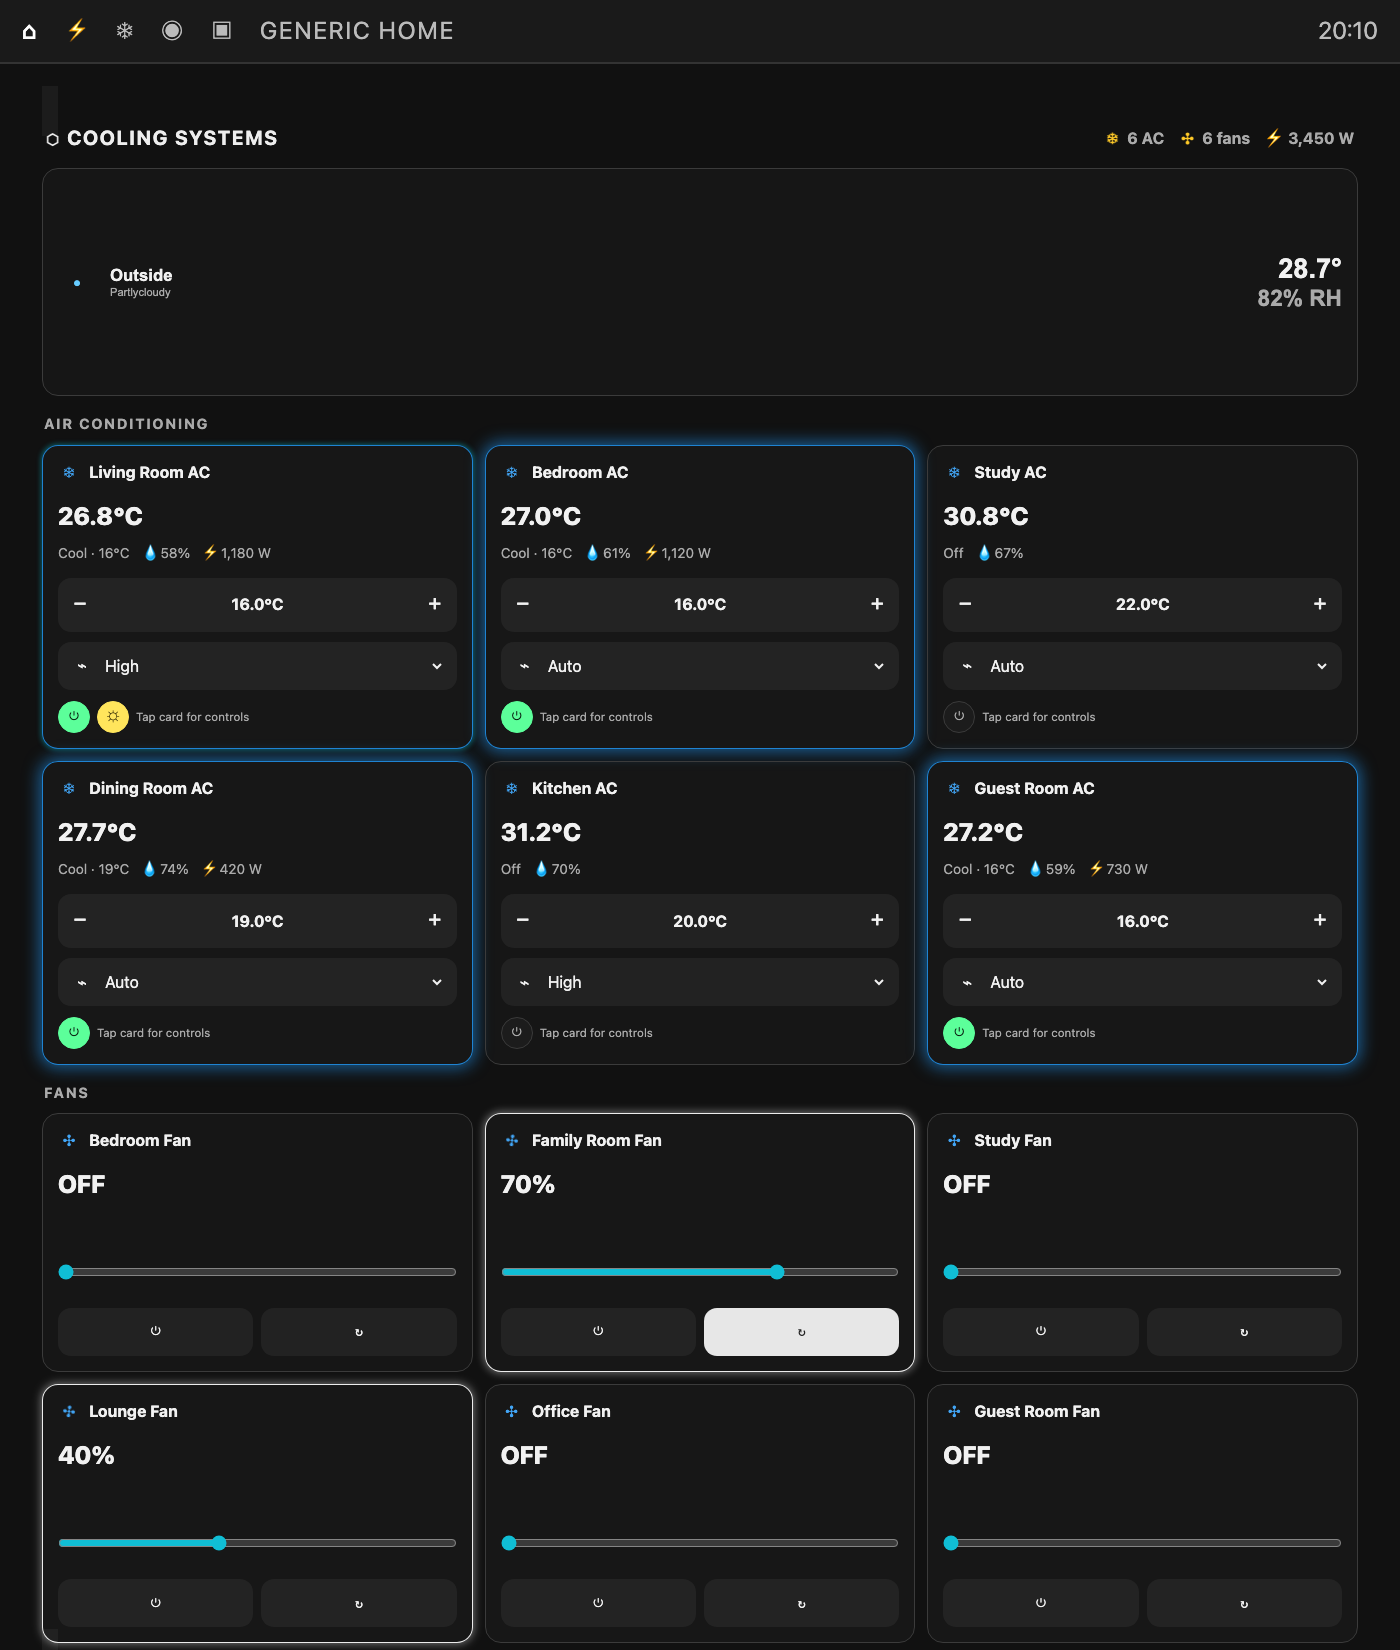
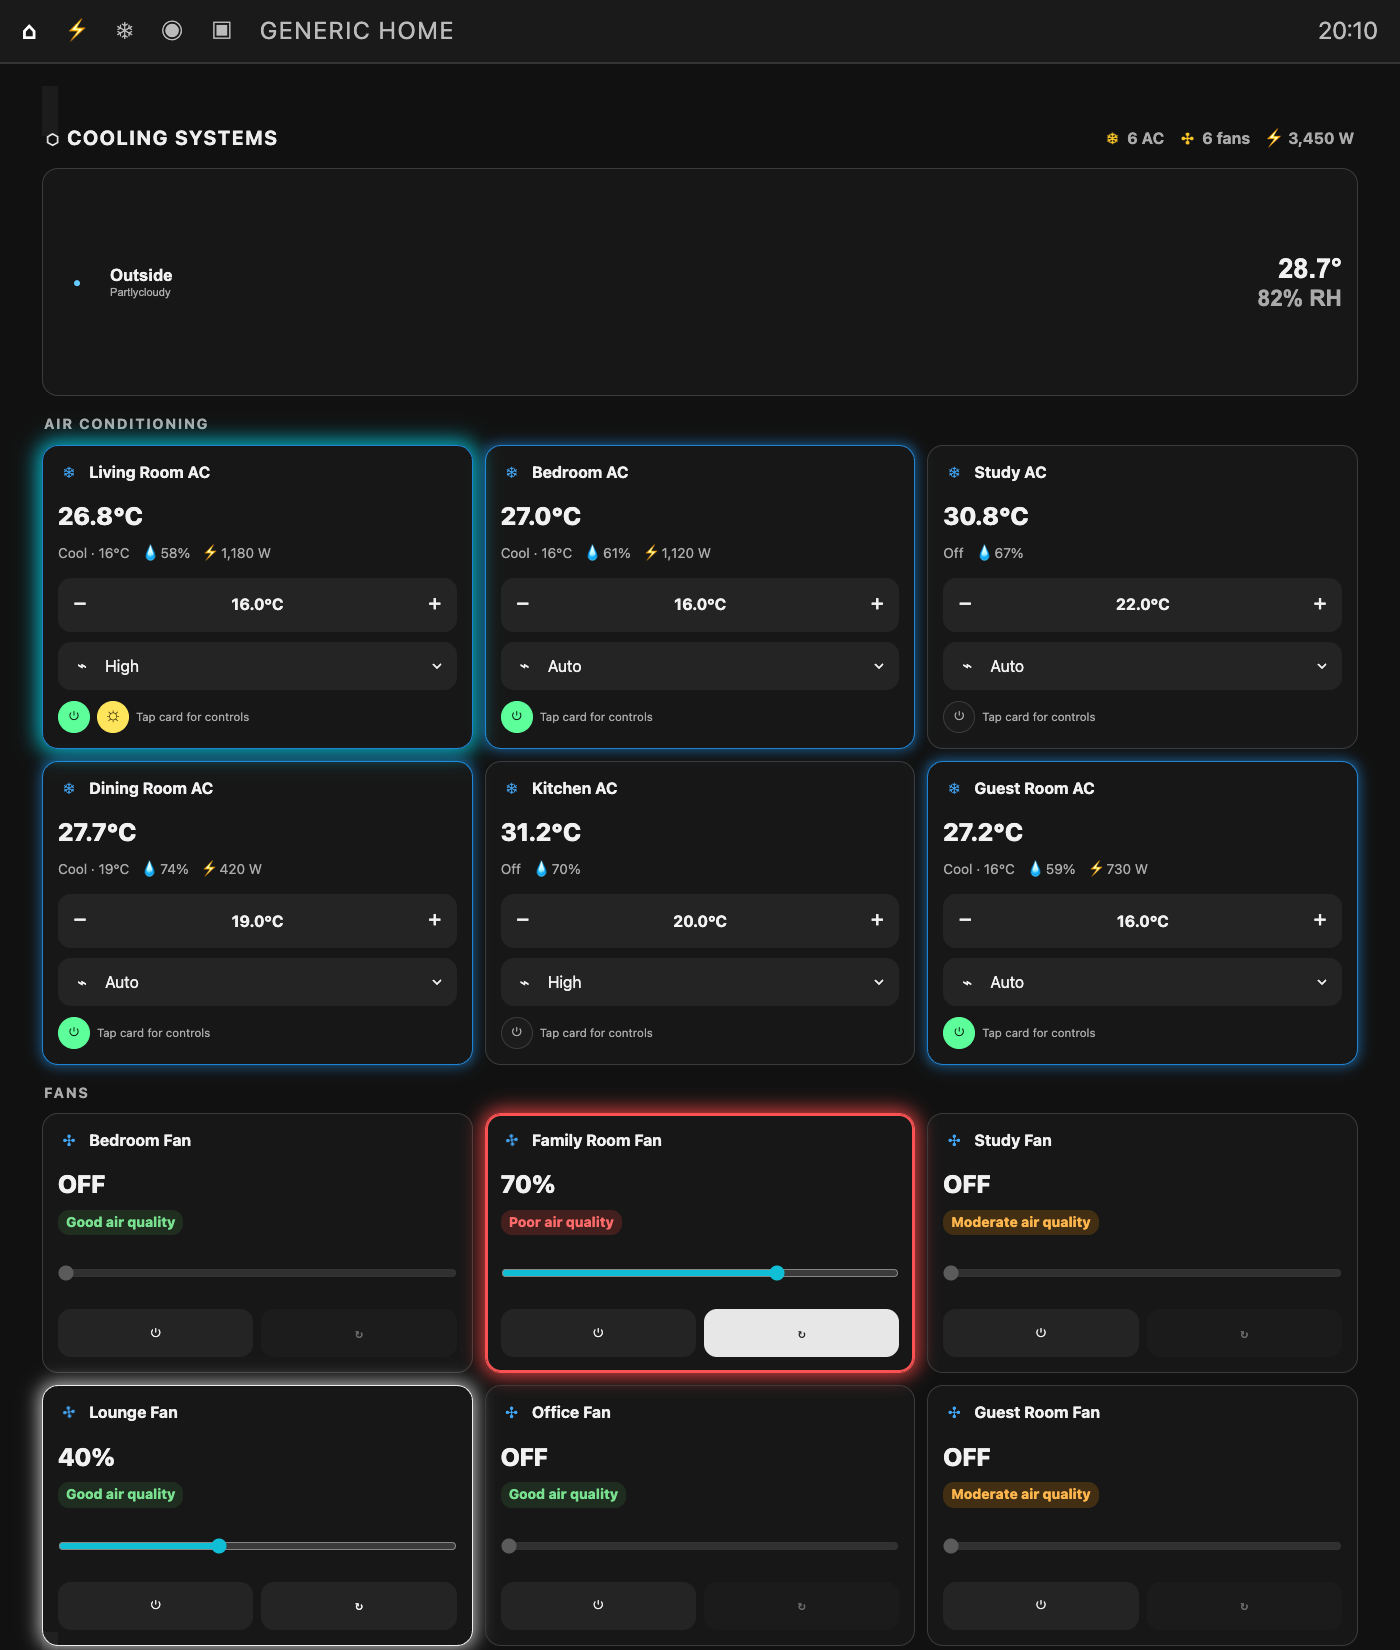
Rename public cooling dashboard

diff --git a/cooling-dashboard.js b/cooling-dashboard.js
@@ -1,4 +1,4 @@
-const CARD_VERSION = "1.1.0";
+const CARD_VERSION = "2.0.0";
 
 const escapeHtml = (value) => String(value ?? "")
   .replaceAll("&", "&amp;")
@@ -9,7 +9,7 @@ const escapeHtml = (value) => String(value ?? "")
 
 const validValue = (value) => value !== undefined && value !== null && !["unknown", "unavailable", "none", ""].includes(String(value));
 
-class LcarsCoolingDashboard extends HTMLElement {
+class CoolingDashboard extends HTMLElement {
   constructor() {
     super();
     this.attachShadow({ mode: "open" });
@@ -82,6 +82,14 @@ class LcarsCoolingDashboard extends HTMLElement {
     return Number.isFinite(value) ? value : null;
   }
 
+  _airQuality(item) {
+    const pm25 = this._number(item.pm2_5);
+    if (pm25 === null) return null;
+    if (pm25 <= 12) return { level: "good", label: "Good air quality", pm25 };
+    if (pm25 <= 35) return { level: "moderate", label: "Moderate air quality", pm25 };
+    return { level: "poor", label: "Poor air quality", pm25 };
+  }
+
   _formatPower(value) {
     if (!Number.isFinite(value)) return "—";
     return `${Math.round(value).toLocaleString()} W`;
@@ -91,7 +99,7 @@ class LcarsCoolingDashboard extends HTMLElement {
     if (!this._config || !this._hass) return "waiting";
     const ids = new Set([this._config.weather, this._config.outside_humidity]);
     for (const item of [...this._config.air_conditioners, ...this._config.fans]) {
-      [item.entity, item.humidity, item.power, item.led].filter(Boolean).forEach((id) => ids.add(id));
+      [item.entity, item.humidity, item.power, item.led, item.pm2_5].filter(Boolean).forEach((id) => ids.add(id));
     }
     return JSON.stringify([...ids].map((id) => {
       const state = this._state(id);
@@ -133,10 +141,12 @@ class LcarsCoolingDashboard extends HTMLElement {
   }
 
   async _setFanSpeed(entityId, percentage) {
+    if (this._state(entityId)?.state !== "on") return;
     await this._hass.callService("fan", "set_percentage", { entity_id: entityId, percentage: Number(percentage) });
   }
 
   async _toggleOscillation(entityId) {
+    if (this._state(entityId)?.state !== "on") return;
     const oscillating = Boolean(this._state(entityId)?.attributes?.oscillating);
     await this._hass.callService("fan", "oscillate", { entity_id: entityId, oscillating: !oscillating });
   }
@@ -198,16 +208,18 @@ class LcarsCoolingDashboard extends HTMLElement {
     const power = this._power(item, state);
     const percentage = Number(state?.attributes?.percentage);
     const oscillating = Boolean(state?.attributes?.oscillating);
+    const airQuality = this._airQuality(item);
     return `
-      <article class="entity-card fan ${running ? "running" : ""} ${unavailable ? "unavailable" : ""}" data-entity="${escapeHtml(item.entity)}">
+      <article class="entity-card fan ${running ? "running" : ""} ${airQuality ? `air-${airQuality.level}` : ""} ${unavailable ? "unavailable" : ""}" data-entity="${escapeHtml(item.entity)}">
         <div class="card-top"><ha-icon class="fan-icon" icon="${escapeHtml(item.icon || "mdi:fan")}"></ha-icon><strong>${escapeHtml(item.name || state?.attributes?.friendly_name || item.entity)}</strong></div>
         <div class="primary-reading">${unavailable ? "—" : running ? `${Number.isFinite(percentage) ? Math.round(percentage) : 100}%` : "OFF"}</div>
         <div class="details">
           ${humidity === null ? "" : `<span><ha-icon icon="mdi:water-percent"></ha-icon>${Math.round(humidity)}%</span>`}
           ${power === null ? "" : `<span><ha-icon icon="mdi:lightning-bolt"></ha-icon>${escapeHtml(this._formatPower(power))}</span>`}
+          ${airQuality ? `<span class="air-badge ${airQuality.level}">${escapeHtml(airQuality.label)}</span>` : ""}
         </div>
-        <input class="speed" data-fan-speed="${escapeHtml(item.entity)}" type="range" min="0" max="100" step="10" value="${Number.isFinite(percentage) ? percentage : 0}" aria-label="Fan speed">
-        <div class="fan-actions"><button class="feature-button" data-toggle="${escapeHtml(item.entity)}" title="Power"><ha-icon icon="mdi:power"></ha-icon></button><button class="feature-button ${oscillating ? "active" : ""}" data-oscillate="${escapeHtml(item.entity)}" title="Oscillation"><ha-icon icon="mdi:rotate-360"></ha-icon></button></div>
+        <input class="speed" data-fan-speed="${escapeHtml(item.entity)}" type="range" min="0" max="100" step="10" value="${Number.isFinite(percentage) ? percentage : 0}" aria-label="Fan speed" ${running ? "" : "disabled"}>
+        <div class="fan-actions"><button class="feature-button" data-toggle="${escapeHtml(item.entity)}" title="Power"><ha-icon icon="mdi:power"></ha-icon></button><button class="feature-button ${oscillating ? "active" : ""}" data-oscillate="${escapeHtml(item.entity)}" title="Oscillation" ${running ? "" : "disabled"}><ha-icon icon="mdi:rotate-360"></ha-icon></button></div>
       </article>`;
   }
 
@@ -253,6 +265,7 @@ class LcarsCoolingDashboard extends HTMLElement {
         .entity-card.running { border-color:rgba(33,150,243,.85); animation:running-glow 3.2s ease-in-out infinite; }
         .entity-card.coldest { animation:coldest-glow 1.7s ease-in-out infinite; }
         .entity-card.fan.running { border-color:rgba(255,255,255,.92); animation:white-glow 2.2s ease-in-out infinite; }
+        .entity-card.fan.running.air-poor { animation:poor-air-glow .9s ease-in-out infinite; }
         .entity-card.unavailable { opacity:.48; }
         .card-top { display:flex; align-items:center; gap:9px; min-width:0; }
         .card-top strong { overflow:hidden; text-overflow:ellipsis; white-space:nowrap; }
@@ -262,6 +275,10 @@ class LcarsCoolingDashboard extends HTMLElement {
         .details { min-height:24px; display:flex; flex-wrap:wrap; gap:7px 12px; color:var(--secondary-text-color); font-size:.86rem; text-transform:capitalize; }
         .details span { display:inline-flex; align-items:center; gap:3px; }
         .details ha-icon { width:16px; }
+        .air-badge { padding:3px 8px; border-radius:11px; font-weight:800; text-transform:none; }
+        .air-badge.good { background:rgba(76,175,80,.15); color:#78e08f; }
+        .air-badge.moderate { background:rgba(255,152,0,.18); color:#ffb74d; }
+        .air-badge.poor { background:rgba(244,67,54,.2); color:#ff6b6b; }
         .actions { display:flex; align-items:center; gap:7px; margin-top:11px; color:var(--secondary-text-color); font-size:.72rem; }
         .temperature-control { height:54px; display:grid; grid-template-columns:44px 1fr 44px; align-items:center; margin-top:12px; border-radius:13px; background:rgba(255,255,255,.055); text-align:center; }
         .temperature-control button { height:100%; border:0; background:transparent; color:var(--primary-text-color); font-size:1.45rem; cursor:pointer; }
@@ -271,6 +288,7 @@ class LcarsCoolingDashboard extends HTMLElement {
         .speed { width:100%; height:56px; margin:10px 0 8px; accent-color:#10bed5; }
         .fan-actions { display:grid; grid-template-columns:1fr 1fr; gap:8px; }
         .feature-button { height:48px; border:0; border-radius:13px; background:rgba(255,255,255,.055); color:var(--primary-text-color); cursor:pointer; }
+        .feature-button:disabled,.speed:disabled { cursor:not-allowed; opacity:.38; }
         .feature-button.active { background:#e7e7e7; color:#222; }
         .action { width:32px; height:32px; display:grid; place-items:center; padding:0; border:1px solid var(--divider-color); border-radius:50%; background:var(--card-background-color); color:var(--secondary-text-color); cursor:pointer; }
         .action.active.power { color:#091d10; background:#5cff9a; border-color:#5cff9a; }
@@ -279,6 +297,7 @@ class LcarsCoolingDashboard extends HTMLElement {
         @keyframes running-glow { 0%,100%{box-shadow:0 0 3px rgba(33,150,243,.28)} 50%{box-shadow:0 0 16px 3px rgba(33,150,243,.58)} }
         @keyframes coldest-glow { 0%,100%{box-shadow:0 0 5px rgba(0,229,255,.35)} 50%{box-shadow:0 0 22px 5px rgba(0,229,255,.82)} }
         @keyframes white-glow { 0%,100%{box-shadow:0 0 4px rgba(255,255,255,.28)} 50%{box-shadow:0 0 18px 3px rgba(255,255,255,.72)} }
+        @keyframes poor-air-glow { 0%,100%{border-color:rgba(255,45,45,.98);box-shadow:inset 0 0 0 2px rgba(255,45,45,.98),0 0 18px 4px rgba(255,35,35,.78)} 50%{border-color:rgba(255,255,255,.98);box-shadow:inset 0 0 0 2px rgba(255,255,255,.98),0 0 18px 4px rgba(255,255,255,.72)} }
         @keyframes spin { to{transform:rotate(360deg)} }
         @media(max-width:800px){ :host{--cooling-ac-columns:2;--cooling-fan-columns:2}.header{align-items:flex-start;flex-direction:column}.summary{flex-wrap:wrap}.entity-card{min-height:148px} }
         @media(max-width:480px){ ha-card{padding:11px}.grid{gap:9px}.entity-card{padding:12px}.actions span{display:none} }
@@ -315,17 +334,17 @@ class LcarsCoolingDashboard extends HTMLElement {
   }
 }
 
-if (!customElements.get("lcars-cooling-dashboard")) {
-  customElements.define("lcars-cooling-dashboard", LcarsCoolingDashboard);
+if (!customElements.get("cooling-dashboard")) {
+  customElements.define("cooling-dashboard", CoolingDashboard);
 }
 
 window.customCards = window.customCards || [];
 window.customCards.push({
-  type: "lcars-cooling-dashboard",
-  name: "LCARS Cooling Dashboard",
+  type: "cooling-dashboard",
+  name: "Cooling Dashboard",
   description: "A responsive Home Assistant dashboard for climate units, fans, humidity, power and weather.",
   preview: true,
-  documentationURL: "https://github.com/obaiii/ha-lcars-cooling-dashboard",
+  documentationURL: "https://github.com/obaiii/ha-cooling-dashboard",
 });
 
-console.info(`%c LCARS COOLING DASHBOARD %c v${CARD_VERSION} `, "color:#101010;background:#66ccff;font-weight:700", "color:#66ccff;background:#101010");
+console.info(`%c COOLING DASHBOARD %c v${CARD_VERSION} `, "color:#101010;background:#66ccff;font-weight:700", "color:#66ccff;background:#101010");

diff --git a/demo/preview.html b/demo/preview.html
@@ -3,7 +3,7 @@
 <head>
   <meta charset="utf-8">
   <meta name="viewport" content="width=device-width,initial-scale=1">
-  <title>LCARS Cooling Dashboard Preview</title>
+  <title>Cooling Dashboard Preview</title>
   <style>
     :root{--card-background-color:#1c1c1c;--ha-card-background:#1c1c1c;--primary-text-color:#f1f1f1;--secondary-text-color:#aaa;--divider-color:#3b3b3b;--primary-color:#2196f3}
     *{box-sizing:border-box}body{margin:0;background:#111;color:#eee;font:16px/1.4 -apple-system,BlinkMacSystemFont,"Segoe UI",sans-serif}
@@ -13,7 +13,7 @@
 </head>
 <body>
   <div class="topbar"><strong>⌂</strong><span>⚡</span><span>❄</span><span>◉</span><span>▣</span><span class="brand">GENERIC HOME</span><span>20:10</span></div>
-  <main class="shell"><lcars-cooling-dashboard id="dashboard"></lcars-cooling-dashboard></main>
+  <main class="shell"><cooling-dashboard id="dashboard"></cooling-dashboard></main>
   <div class="mock-dialog" id="dialog">
     <section class="dialog-card">
       <span class="close">×</span><div class="dialog-title"><small>Living Room</small><h2>Living Room AC</h2></div>
@@ -30,7 +30,7 @@
     const icons={"mdi:air-conditioner":"❄","mdi:fan":"✣","mdi:fan-auto":"⌁","mdi:water-percent":"💧","mdi:lightning-bolt":"⚡","mdi:power":"⏻","mdi:rotate-360":"↻","mdi:television-ambient-light":"☼"};
     class HaIcon extends HTMLElement{connectedCallback(){this.textContent=icons[this.getAttribute('icon')]||'●';this.style.display='inline-grid';this.style.placeItems='center'}} customElements.define('ha-icon',HaIcon);
   </script>
-  <script src="../lcars-cooling-dashboard.js"></script>
+  <script src="../cooling-dashboard.js"></script>
   <script>
     const now=new Date().toISOString();
     const s=(entity_id,state,attributes)=>({entity_id,state,attributes,last_updated:now});
@@ -50,7 +50,13 @@
       'fan.study':s('fan.study','off',{friendly_name:'Study Fan',percentage:0,oscillating:false}),
       'fan.lounge':s('fan.lounge','on',{friendly_name:'Lounge Fan',percentage:40,oscillating:false}),
       'fan.office':s('fan.office','off',{friendly_name:'Office Fan',percentage:0,oscillating:false}),
-      'fan.guest':s('fan.guest','off',{friendly_name:'Guest Room Fan',percentage:0,oscillating:false})
+      'fan.guest':s('fan.guest','off',{friendly_name:'Guest Room Fan',percentage:0,oscillating:false}),
+      'sensor.bedroom_pm2_5':s('sensor.bedroom_pm2_5','8',{unit_of_measurement:'µg/m³'}),
+      'sensor.family_pm2_5':s('sensor.family_pm2_5','48',{unit_of_measurement:'µg/m³'}),
+      'sensor.study_pm2_5':s('sensor.study_pm2_5','18',{unit_of_measurement:'µg/m³'}),
+      'sensor.lounge_pm2_5':s('sensor.lounge_pm2_5','7',{unit_of_measurement:'µg/m³'}),
+      'sensor.office_pm2_5':s('sensor.office_pm2_5','11',{unit_of_measurement:'µg/m³'}),
+      'sensor.guest_pm2_5':s('sensor.guest_pm2_5','14',{unit_of_measurement:'µg/m³'})
     };
     const dashboard=document.getElementById('dashboard');
     dashboard.setConfig({title:'COOLING SYSTEMS',weather:'weather.home',outside_humidity:'sensor.outside_humidity',air_conditioners:[
@@ -60,7 +66,12 @@
       {entity:'climate.dining',name:'Dining Room AC',humidity:'sensor.dining_humidity'},
       {entity:'climate.kitchen',name:'Kitchen AC',humidity:'sensor.kitchen_humidity'},
       {entity:'climate.guest',name:'Guest Room AC',humidity:'sensor.guest_humidity'}],fans:[
-      {entity:'fan.bedroom',name:'Bedroom Fan'},{entity:'fan.family',name:'Family Room Fan'},{entity:'fan.study',name:'Study Fan'},{entity:'fan.lounge',name:'Lounge Fan'},{entity:'fan.office',name:'Office Fan'},{entity:'fan.guest',name:'Guest Room Fan'}]});
+      {entity:'fan.bedroom',name:'Bedroom Fan',pm2_5:'sensor.bedroom_pm2_5'},
+      {entity:'fan.family',name:'Family Room Fan',pm2_5:'sensor.family_pm2_5'},
+      {entity:'fan.study',name:'Study Fan',pm2_5:'sensor.study_pm2_5'},
+      {entity:'fan.lounge',name:'Lounge Fan',pm2_5:'sensor.lounge_pm2_5'},
+      {entity:'fan.office',name:'Office Fan',pm2_5:'sensor.office_pm2_5'},
+      {entity:'fan.guest',name:'Guest Room Fan',pm2_5:'sensor.guest_pm2_5'}]});
     dashboard.hass={states,callService:async()=>{}};
     if(new URLSearchParams(location.search).get('dialog')==='1'){document.body.classList.add('open-preview');document.getElementById('dialog').classList.add('open')}
   </script>

diff --git a/README.md b/README.md
@@ -1,10 +1,10 @@
-# LCARS Cooling Dashboard
+# Cooling Dashboard
 
-A responsive Home Assistant Lovelace card for air conditioners, fans and weather. It is inspired by an LCARS-style whole-home cooling screen while remaining brand-neutral and safe to share.
+A responsive Home Assistant Lovelace card for air conditioners, fans, air quality and weather. It provides a polished whole-home cooling screen while remaining brand-neutral and safe to share.
 
 ## Screenshots
 
-Running ACs use a blue pulse, while running fans use a white pulse. Temperature, fan-mode, speed and oscillation controls remain expanded on the dashboard.
+Running ACs use a blue pulse, while running fans use a white pulse. A running fan with poor air quality pulses red and white. Temperature, fan-mode, speed and oscillation controls remain expanded on the dashboard.
 
 ![Generic cooling dashboard with blue AC and white fan pulses](screenshots/cooling-dashboard-overview.png)
 
@@ -20,7 +20,10 @@ Tapping a device opens its Home Assistant details dialog. The exact controls var
 - Total configured cooling power in the header
 - Running AC glow and a faster pulse for the coldest running room
 - White pulsing fan cards and an animated fan icon while running
+- Optional PM2.5 air-quality status: green for good, orange for moderate and red for poor
+- Red/white warning pulse when a fan is running during poor air quality
 - Expanded temperature, climate fan-mode, fan-speed and oscillation controls
+- Fan speed and oscillation stay locked while the fan is off; only its power button starts it
 - Optional AC display/LED toggle
 - Current outside weather
 - Tap any AC or fan card to open Home Assistant's normal controls
@@ -29,14 +32,14 @@ Tapping a device opens its Home Assistant details dialog. The exact controls var
 ## Install with HACS
 
 1. Open **HACS → ⋮ → Custom repositories**.
-2. Add `https://github.com/obaiii/ha-lcars-cooling-dashboard` as a **Dashboard** repository.
-3. Find **LCARS Cooling Dashboard** in HACS and install it.
+2. Add `https://github.com/obaiii/ha-cooling-dashboard` as a **Dashboard** repository.
+3. Find **Cooling Dashboard** in HACS and install it.
 4. Refresh the browser or fully restart the Home Assistant mobile app.
 
 HACS normally adds the JavaScript resource automatically. If it does not, add this under **Settings → Dashboards → Resources**:
 
 ```text
-/hacsfiles/ha-lcars-cooling-dashboard/lcars-cooling-dashboard.js
+/hacsfiles/ha-cooling-dashboard/cooling-dashboard.js
 ```
 
 Resource type: **JavaScript Module**.
@@ -46,7 +49,7 @@ Resource type: **JavaScript Module**.
 Create a Manual card and start with:
 
 ```yaml
-type: custom:lcars-cooling-dashboard
+type: custom:cooling-dashboard
 title: COOLING SYSTEMS
 weather: weather.forecast_home
 outside_humidity: sensor.outside_humidity
@@ -68,6 +71,7 @@ fans:
   - entity: fan.living_room
     name: Living Room Fan
     humidity: sensor.living_room_fan_humidity
+    pm2_5: sensor.living_room_fan_pm_2_5
 ```
 
 Replace every example entity with an entity from your own Home Assistant. A larger example is in [`examples/dashboard.yaml`](examples/dashboard.yaml).
@@ -98,17 +102,20 @@ Replace every example entity with an entity from your own Home Assistant. A larg
 | `humidity` | No | Humidity sensor |
 | `power` | No | Power sensor in watts |
 | `power_attribute` | No | Climate/fan attribute containing watts |
+| `pm2_5` | No | PM2.5 sensor used for the fan air-quality badge and poor-air warning pulse |
 | `led` | No | Optional switch controlling an AC display light |
 | `icon` | No | Optional Material Design icon |
 
 If neither `power` nor `power_attribute` is set, the card also checks the common `compressor_power`, `realtime_power`, and `power` attributes.
 
+Air-quality thresholds use PM2.5 values: good is 12 µg/m³ or below, moderate is above 12 through 35 µg/m³, and poor is above 35 µg/m³.
+
 ## Manual installation
 
-Download `lcars-cooling-dashboard.js`, copy it to `/config/www/`, and add this JavaScript module resource:
+Download `cooling-dashboard.js`, copy it to `/config/www/`, and add this JavaScript module resource:
 
 ```text
-/local/lcars-cooling-dashboard.js
+/local/cooling-dashboard.js
 ```
 
 ## Privacy

diff --git a/CHANGELOG.md b/CHANGELOG.md
@@ -1,5 +1,13 @@
 # Changelog
 
+## 2.0.0
+
+- Renamed the card and package to Cooling Dashboard.
+- Card type is now `custom:cooling-dashboard` and the module is `cooling-dashboard.js`.
+- Added optional PM2.5 air-quality badges: green for good, orange for moderate and red for poor.
+- Added a red/white warning pulse when a fan runs during poor air quality.
+- Locked fan speed and oscillation controls while the fan is off so only the power button starts it.
+
 ## 1.1.0
 
 - Expanded AC temperature and fan-mode controls.
